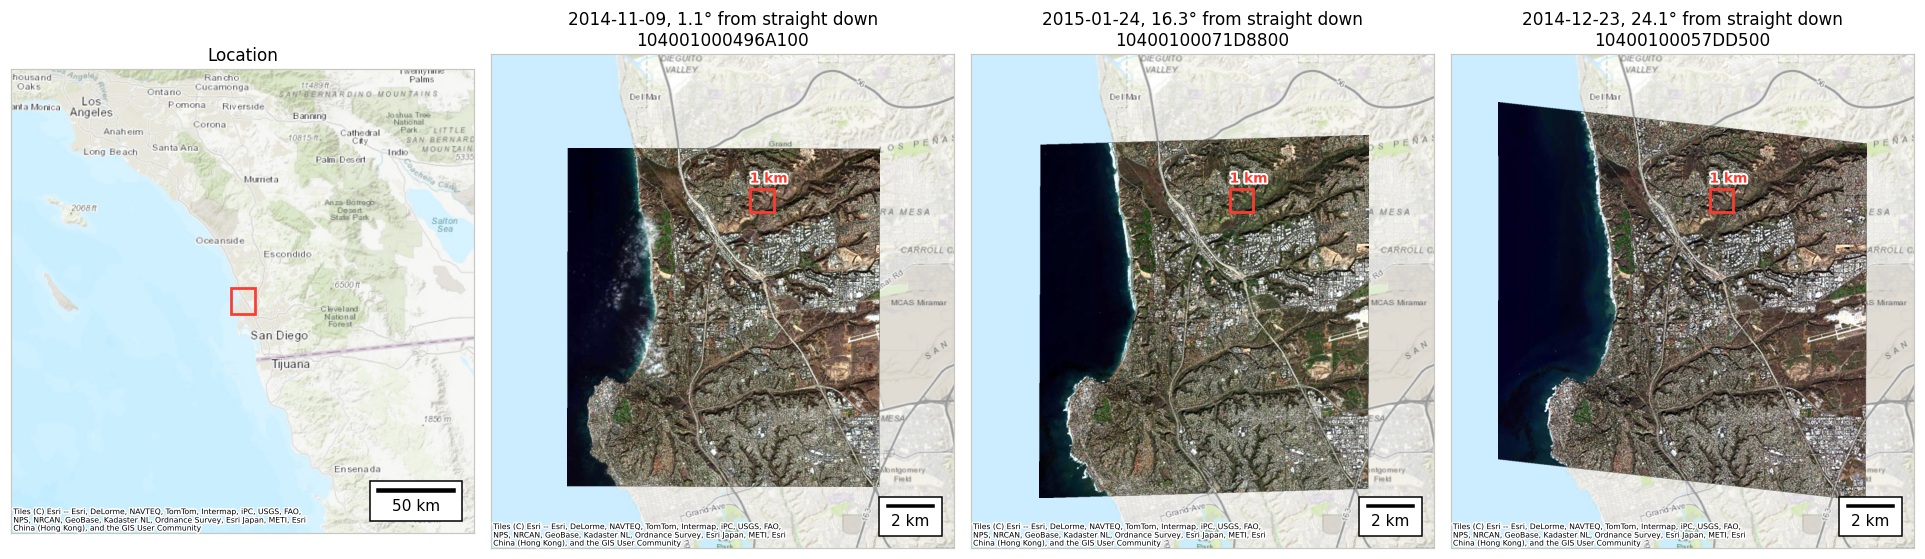
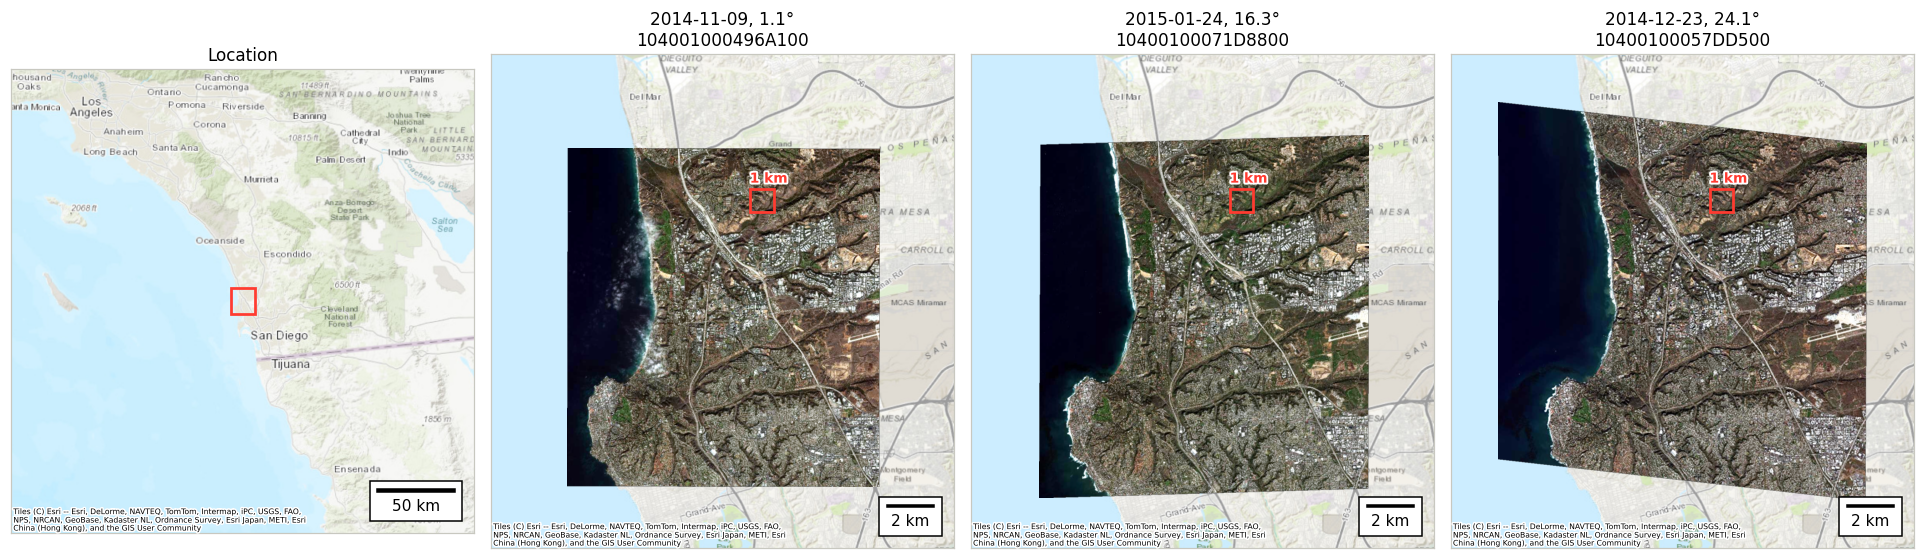
Shorten the WorldView scene-map titles
The panel titles now give the date, the view angle and the catalog ID,
without "from straight down"; the tutorials' tables say what the angle
is.

Changed region(s): [[0.7792, 0.0, 0.9662, 0.0608], [0.5299, 0.0, 0.7169, 0.0608], [0.2805, 0.0, 0.4675, 0.0608]]

diff --git a/scripts/docs_figures/make_scene_maps.py b/scripts/docs_figures/make_scene_maps.py
@@ -233,7 +233,7 @@ def wv_maps(catids, work, out, name):
     draw_context(axes[0], WV_SRS, scenes, 150, 50)
     for ax, catid, path in zip(axes[1:], catids, paths):
         date, angle = WV[catid][:2]
-        draw_scene(ax, path, WV_SRS, WV_SQUARE, "1 km", 2, f"{date}, {angle} from straight down\n{catid}", bounds)
+        draw_scene(ax, path, WV_SRS, WV_SQUARE, "1 km", 2, f"{date}, {angle}\n{catid}", bounds)
     fig.tight_layout()
     save(fig, out, name)
 
